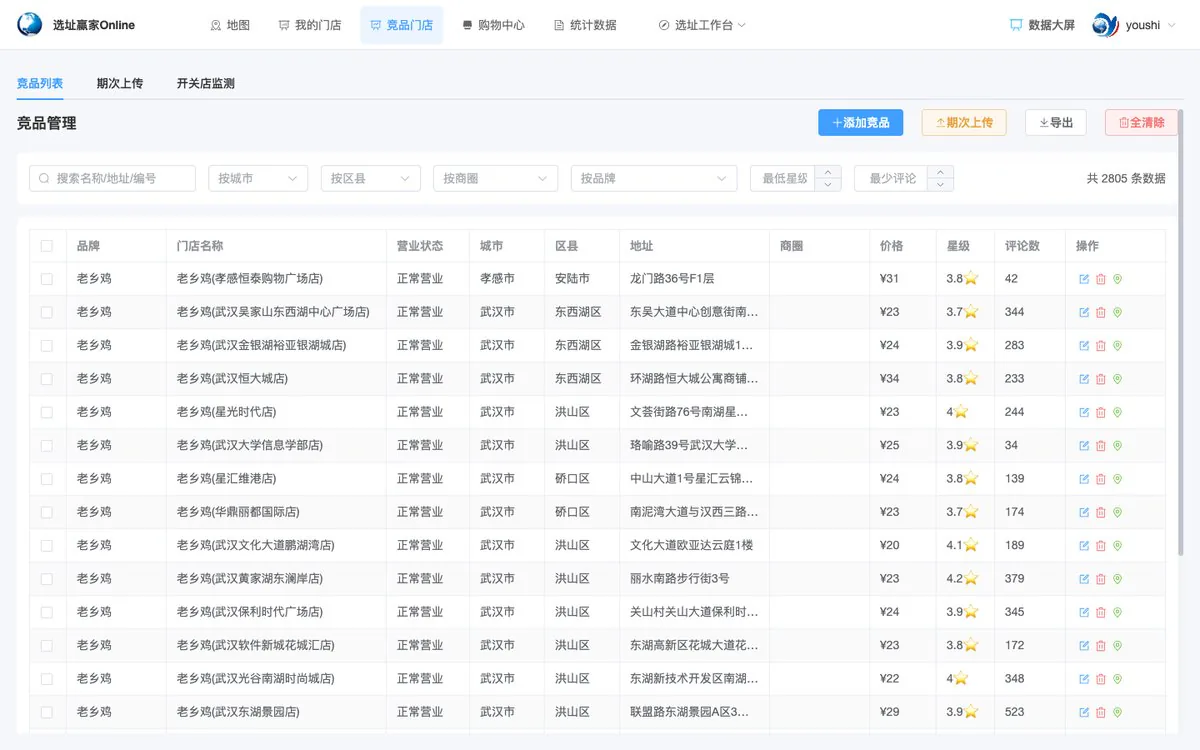
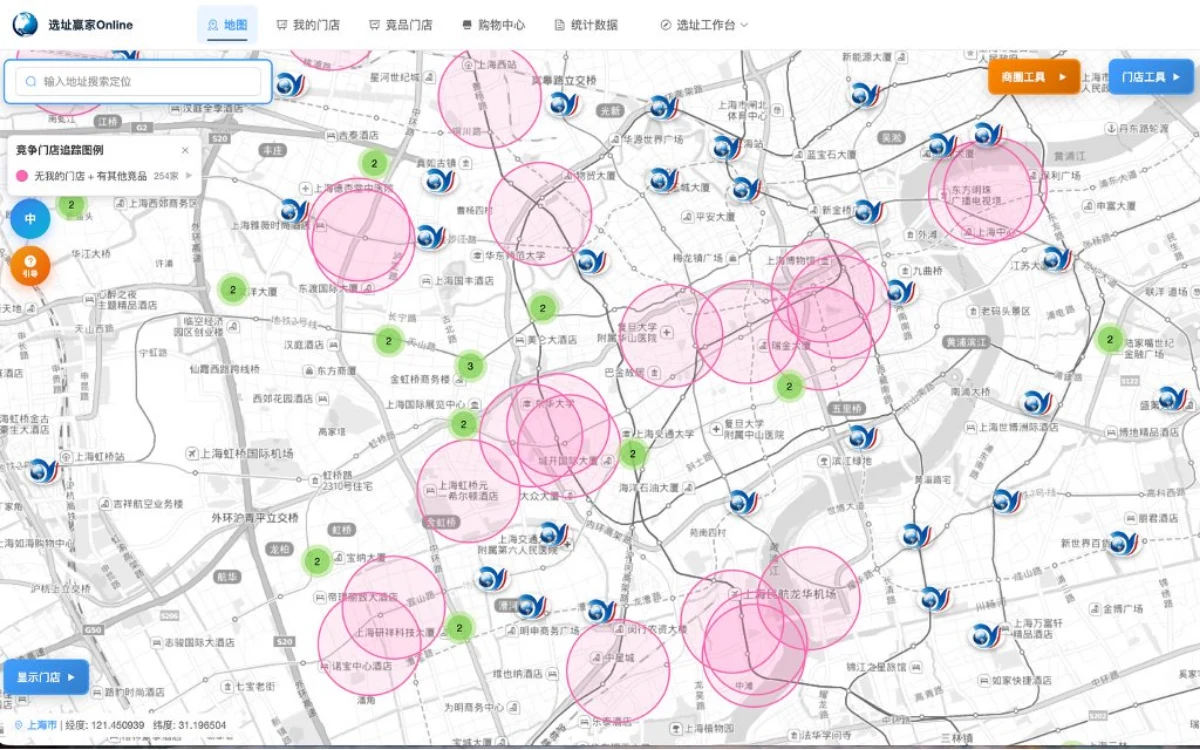
feat(home): 第 03 步改名「竞争追踪」，滚图换竞品追踪圈地图
- 步骤名「比出竞争」→「竞争追踪」（副标题不变）
- 滚图换竞品门店追踪图（粉色追踪圈 + 左上图例），1080x561 按 1.6 比例左对齐裁剪放大至 1200x750（160KB）
- 热点重新量取：框住左上「竞品门店追踪图例」卡片，提示「追踪圈按竞品分布生成，圈内竞品一图看清」
- 已部署 /home/ 并三份 MD5 对齐（备份 *.bak_20261103_1755）

diff --git a/homepage/index.html b/homepage/index.html
@@ -416,7 +416,7 @@ h1{margin:26px auto 0;max-width:16em;font-size:clamp(38px,5.4vw,66px);line-heigh
         </button>
         <button class="step" type="button" role="tab" aria-selected="false" aria-controls="stagePanel" data-i="2">
           <span class="n">03</span>
-          <span class="t"><b>比出竞争</b><em>半径内竞品数量、重合度、威胁一屏看清</em></span>
+          <span class="t"><b>竞争追踪</b><em>半径内竞品数量、重合度、威胁一屏看清</em></span>
           <span class="prog" aria-hidden="true"><i></i></span>
         </button>
         <button class="step" type="button" role="tab" aria-selected="false" aria-controls="stagePanel" data-i="3">
@@ -435,7 +435,7 @@ h1{margin:26px auto 0;max-width:16em;font-size:clamp(38px,5.4vw,66px);line-heigh
         <div class="frame" id="frame">
           <img class="shot is-on" src="assets/screen-sitefinder.webp" alt="地图工作台：右上角展开「商圈工具」菜单，可选商圈内点位、周边商业配套、常住人口分布与开店余地" width="1200" height="750" loading="lazy" decoding="async">
           <img class="shot" src="assets/screen-population.webp" alt="常住人口分布：以上海五角场万达广场为圆心、半径 3 公里的圆形范围，按 1km 网格分档着色（6 档，颜色越暖人口越密），右侧面板汇总常住人口 72.2 万及各年龄段" width="1200" height="750" loading="lazy" decoding="async">
-          <img class="shot" src="assets/screen-competitor.webp" alt="竞品门店管理：按城市、区县、商圈、品牌筛选，列表显示价格、星级与评论数" width="1200" height="750" loading="lazy" decoding="async">
+          <img class="shot" src="assets/screen-competitor.webp" alt="竞品门店追踪：上海地图以粉色追踪圈标出竞品分布范围，左上图例说明追踪口径，配合品牌图标区分自家与竞品门店" width="1200" height="750" loading="lazy" decoding="async">
           <img class="shot" src="assets/screen-report.webp" alt="商圈分析报告：五个维度星级评分、逐条数据洞察结论，以及人口结构、年龄分布、到访趋势等图表" width="1200" height="750" loading="lazy" decoding="async">
           <img class="shot" src="assets/screen-dashboard.webp" alt="数据大屏：在营门店与竞品门店数量、覆盖城市与省份、全国门店分布地图、门店城市 TOP10 与竞品品牌 TOP10 排行" width="1200" height="750" loading="lazy" decoding="async">
           <div class="spot" id="spot" aria-hidden="true"><span class="spot-tip" id="spotTip">商圈工具</span></div>

diff --git a/homepage/home_v2.js b/homepage/home_v2.js
@@ -29,7 +29,8 @@
     /* 02 看清人口：五角场万达为圆心、半径 3km 的圆 + 1km 网格整格着色
      * 🔴 用「方格完整、不按圆裁剪」那版图（裁剪版色块边缘碎成不规则多边形，观感差）。*/
     { x: 26.2, y: 23.4, w: 39.6, h: 55.3, tip: '半径 3km 内 72.2 万人，颜色越暖人口越密', below: false },
-    { x: 1.8,  y: 20.3, w: 84.5, h: 6.6,  tip: '按城市 / 商圈 / 品牌筛，共 2805 条', below: true  },
+    /* 03 竞争追踪：竞品门店追踪图 ⇒ 框住左上「竞品门店追踪图例」卡片（图按 1.6 比例左对齐裁剪，图例未被切） */
+    { x: 0.8,  y: 16.6, w: 17.6, h: 10.8, tip: '追踪圈按竞品分布生成，圈内竞品一图看清', below: true  },
     /* 04 得出结论：商圈分析报告（评分 + 数据洞察 + 可视化）⇒ 框住整块「商圈评分」卡片 */
     { x: 1.0,  y: 23.5, w: 59.5, h: 21.5, tip: '五个维度打分，商圈成色一眼看清',     below: true  },
     /* 05 大屏总览：深色数据大屏 ⇒ 框住左上四组 KPI（在营门店 / 竞品门店 / 闭店 / 覆盖）*/
